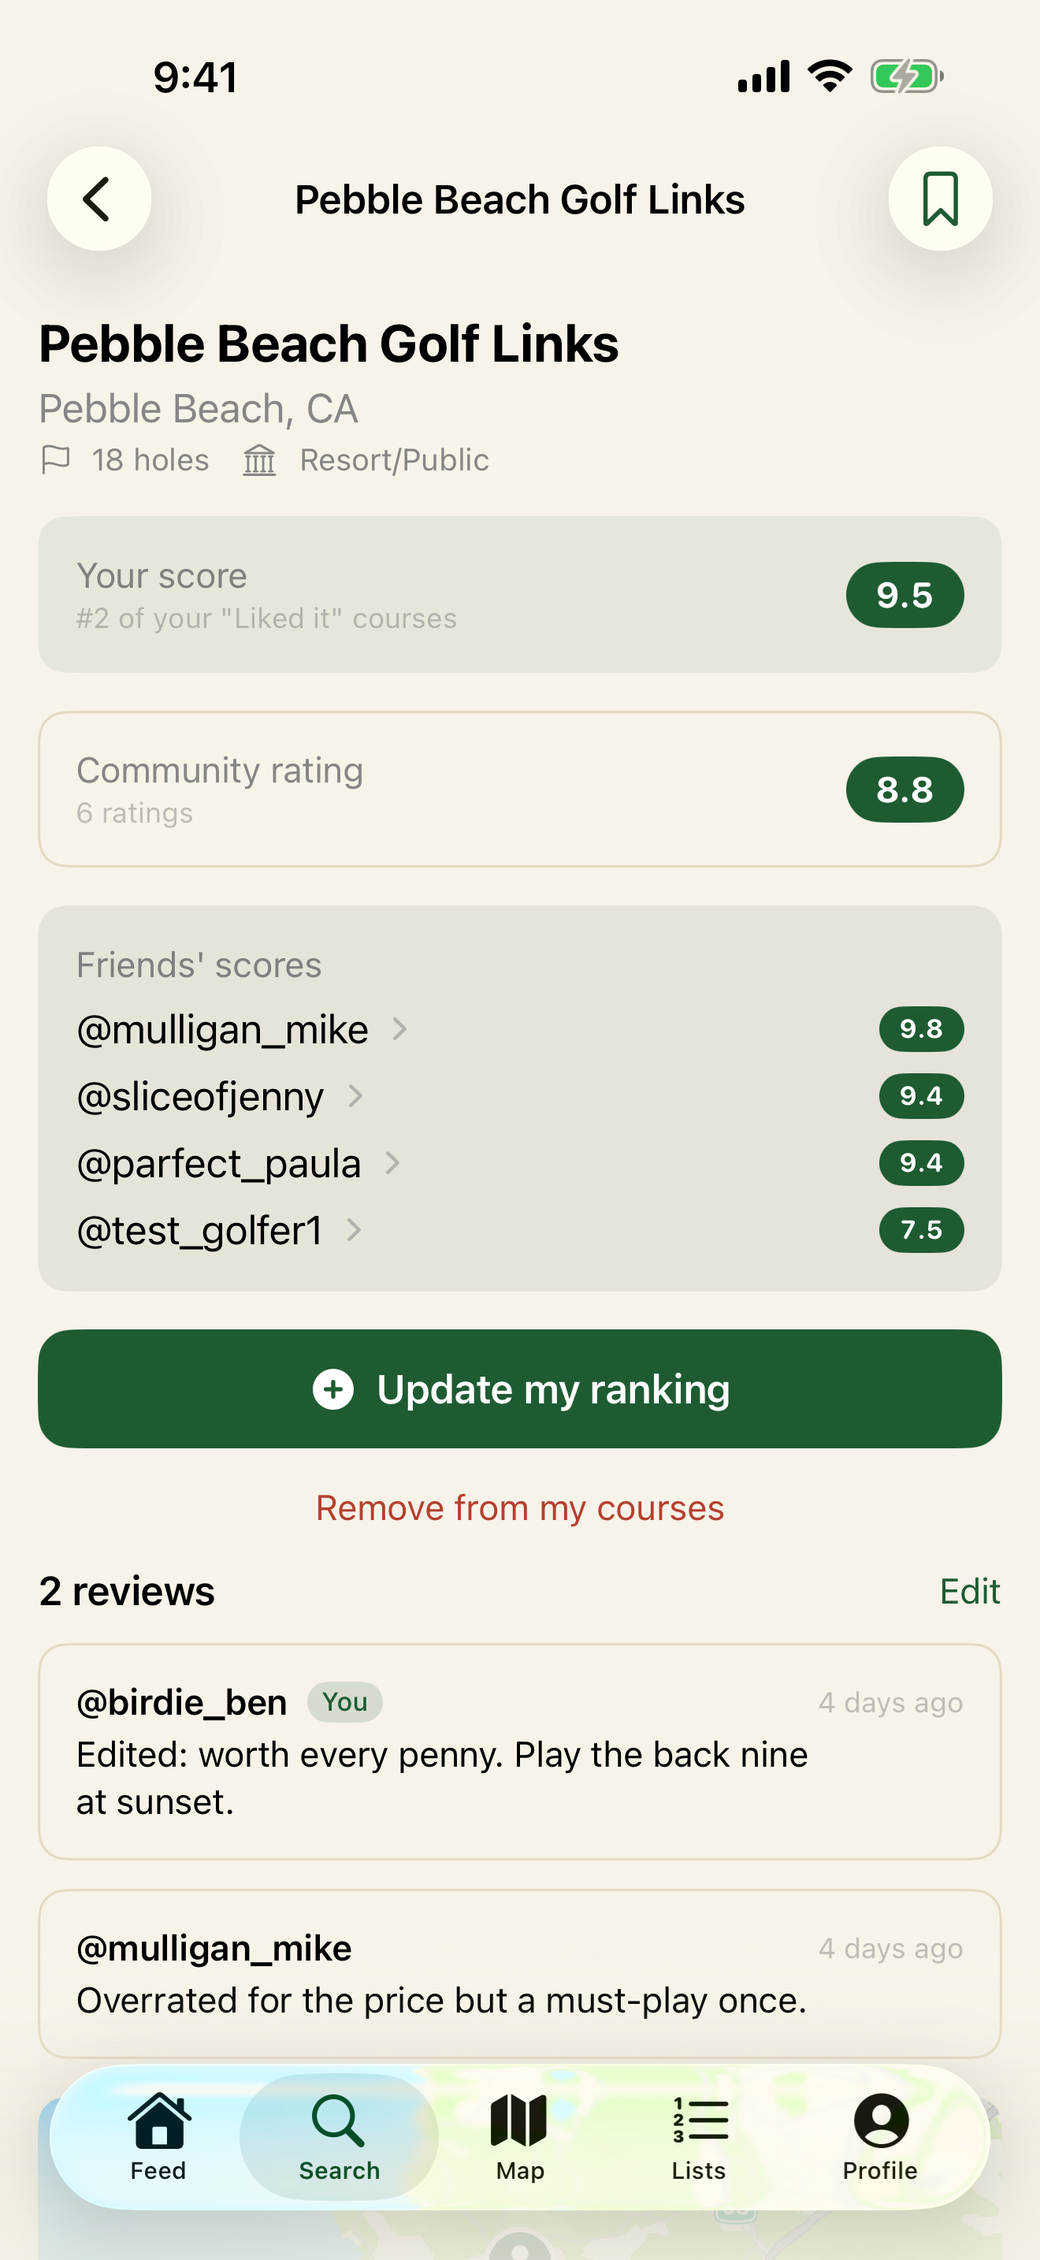
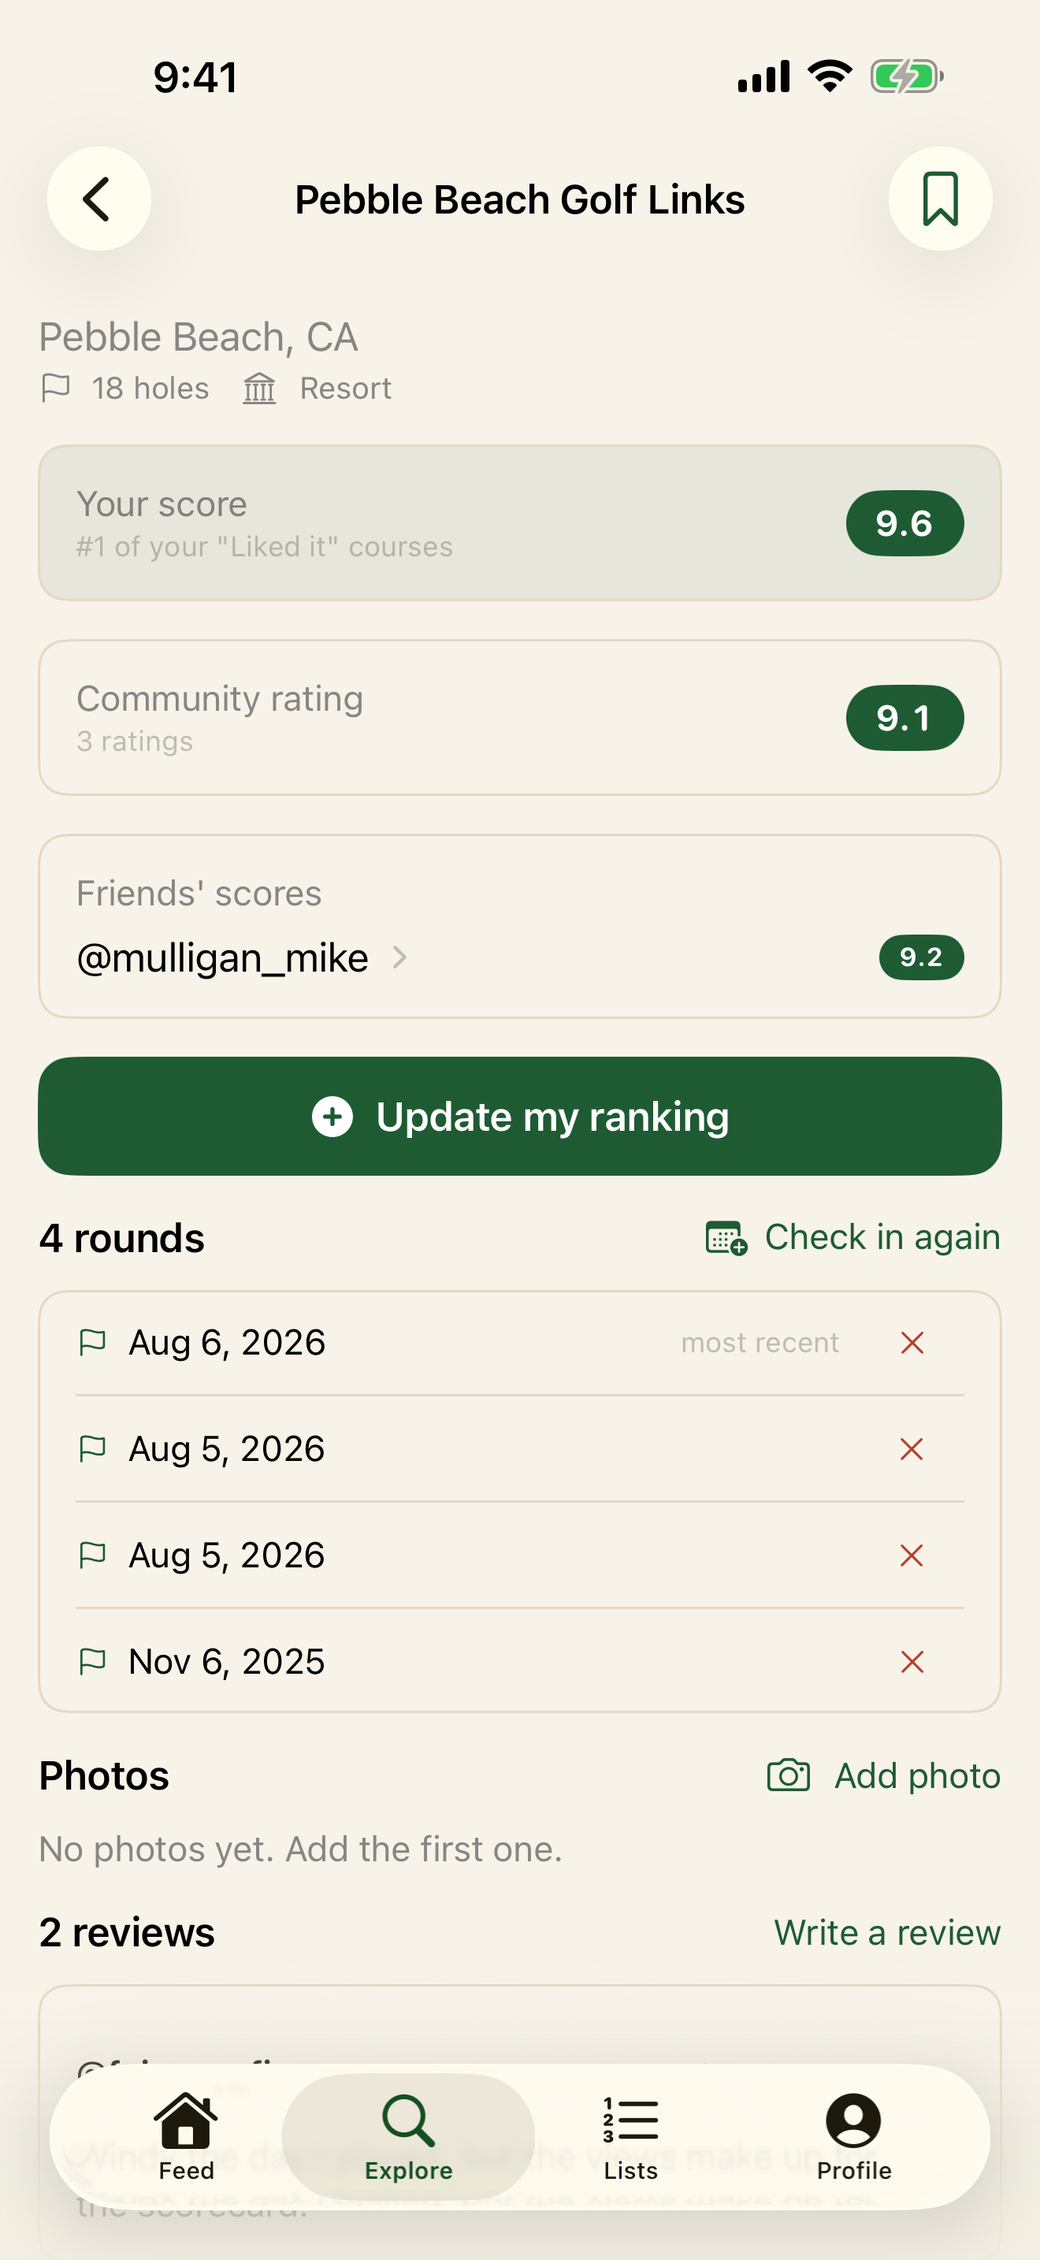
Refresh App Store screenshots; centre the score reveal; add questionnaire keys
The stored screenshot set was from 26 July and showed a five-tab app that no
longer exists — no Explore tab, reactions, alerts, photos or streaks. Replaced
with six 1320x2868 captures from the current build.

Capturing them caught a regression: wrapping the score reveal in a ScrollView
to fix Dynamic Type clipping left it top-aligned with the bottom third empty.
Tying the content's minHeight to the viewport restores the centring while
keeping it scrollable at large text sizes.

Also recorded exact answer keys for the two App Store Connect questionnaires,
including the two that read wrong but are right: Contacts and Location are both
NOT collected — names never leave the device, and location is never sent to the
backend.

Noted in the recipe that only one simulator may be booted during a capture run;
a second booted device fails most of the suite with no code cause.

diff --git a/3Wood/Features/Ranking/RankResultView.swift b/3Wood/Features/Ranking/RankResultView.swift
@@ -26,8 +26,12 @@ struct RankResultView: View {
     @State private var tagged: [String] = []
 
     var body: some View {
-        ScrollView {
-          VStack(spacing: 24) {
+        // minHeight tied to the viewport so the Spacers can centre the reveal
+        // when it fits — wrapping in a plain ScrollView top-aligned it and left
+        // the bottom third empty — while still scrolling at large text sizes.
+        GeometryReader { proxy in
+          ScrollView {
+            VStack(spacing: 24) {
             Spacer(minLength: 24)
             Text(courseName)
                 .font(.title2.bold())
@@ -84,9 +88,10 @@ struct RankResultView: View {
                 Text("Done")
             }
             .buttonStyle(.primary)
+            }
+            .padding()
+            .frame(maxWidth: .infinity, minHeight: proxy.size.height)
           }
-          .padding()
-          .frame(maxWidth: .infinity)
         }
         .creamScreen()
         .sheet(item: $sheet) { which in

diff --git a/docs/promotion-plan.md b/docs/promotion-plan.md
@@ -1,0 +1,260 @@
+# 3Wood — forum & Reddit promotion plan
+
+Written 2026-08-05. Assumption stated up front: **an App Store submission follows
+the current TestFlight round.** The plan is phased around that, because the single
+biggest constraint right now is not a forum rule — it's that there is no public
+download link.
+
+---
+
+## The strategy in one line
+
+**Post the rankings, not the app.** 3Wood's output — "every muni in [metro], ranked
+0–10, here's why" — is exactly the kind of post golf communities upvote. "Check out
+my app" is the kind they remove. Lead with the content the product generates, put
+the app in the last line. This is a real advantage most app promotion doesn't have;
+build everything around it.
+
+Corollary: **you get one launch post per community.** Spend it on a TestFlight beta
+and it's gone. Hence two phases.
+
+---
+
+## Blockers — close these before any public post
+
+| # | Item | Status |
+|---|------|--------|
+| 1 | **Supabase Pro upgrade ($25/mo)** | ⛔ OPEN — free tier auto-pauses after ~1wk idle. A post that gets *any* traction against a paused backend kills the app for every tester at once. This is a prerequisite for promoting, not a nice-to-have. |
+| 2 | **Migration 00220 pushed to hosted** | ⛔ OPEN — build 5 calls `course_visits`/`log_visit`. Without it strangers land on a load-failed screen. |
+| 3 | **App Review demo account** | ⛔ Re-verify it signs in before submission (see `appstore-listing.md`). Blocks Phase 2 entirely. |
+| 4 | **GitHub Pages live** | ✅ VERIFIED 2026-08-05 — `/`, `/privacy.html`, `/terms.html`, `/support.html` all return 200. |
+| 5 | **Custom domain** | ⚠ Undecided. `leon1224an-droid.github.io/3Wood/` in a Reddit post reads as unfinished and is likelier to trip link filters. If you're promoting, this stops being deferrable — a $12 domain (e.g. `3wood.app`) pointed at Pages is a half-hour job and materially raises how the link reads. |
+
+---
+
+## The problem the plan has to survive: cold start
+
+A stranger installs alone and finds an empty social graph. Be honest about what
+day 1 gives them:
+
+- ✅ 16,771 US courses with community ratings and a map
+- ✅ Their own ranked list built in minutes (the ranking flow is genuinely fun solo)
+- ✅ The leaderboard
+- ❌ A feed — empty until they follow someone
+
+**So: recruit cohorts, not individuals.** Aim at places where a *group* joins
+together — a city golf sub, a buddies-trip thread, a "rank your home track" thread
+where 40 people are already comparing lists. Also: seed the community ratings
+yourself before launch so a solo installer sees numbers on courses, not blanks.
+Course pages that read "no ratings yet" are how a first session ends.
+
+**US-only.** 16,771 courses are US. Don't post in r/golfaus, UK, or Canadian
+communities — the app is empty there and it reads as spam.
+
+---
+
+## Two one-liners (write for the room)
+
+- **Beli-aware crowd** (r/golf skews younger, will know it): *"It's Beli, but for
+  golf courses."*
+- **Everyone else** (GolfWRX, THP — largely won't know Beli): *"You rank courses
+  head-to-head instead of guessing at star ratings, and it turns that into a 0–10
+  list you can compare with your buddies."*
+
+---
+
+## Phase 1 — now, while TestFlight-only
+
+Goal: build posting history, recruit 20–50 beta testers, and **learn the pitch**
+cheaply. Do not touch r/golf or GolfWRX yet.
+
+⚠ Every subreddit named below is a **candidate, not a verified target** — I can't
+fetch Reddit, so confirm each one exists under that exact name and read its rules
+before posting. Names drift and some of these may not exist.
+
+| Where | Why it's safe | What to post |
+|---|---|---|
+| r/TestFlight, r/iosapps, r/betatesters | Beta-recruiting subs exist for exactly this; a beta link is on-topic, not spam | Short beta call, TestFlight public link |
+| r/SideProject, r/indiehackers | Builder audience, tolerant of self-promo | Build story: solo dev, 16k courses, the ranking algorithm |
+| Your own network / group chats | Highest conversion by far | Personal ask |
+| **Your local city sub or a local golf FB group** | A cohort that plays the same courses = the feed actually fills | "Building a course-ranking app, want to see if [city] can rank our munis" |
+
+Simultaneously, **start participating** in r/golf, GolfWRX and THP as a golfer with
+zero mention of the app. Comment on course threads, answer questions, post a round.
+Three to four weeks of that history is what separates a launch post that lands from
+one that's auto-filtered.
+
+---
+
+## ⚠ The real long pole: you need a ranked list of your own
+
+Drafts B and C below are the two highest-value posts in this plan, and **both
+require 10–22 courses in one metro that you have personally played and ranked.**
+That content can't be faked or generated — the whole post is your list.
+
+So the critical path for Phase 2 is probably **not** App Store approval. It's
+whether you have that list. Check your own Played tab:
+
+- **If you have 15+ ranked courses in one area** → you're ready, Phase 2 gates on
+  Apple only.
+- **If you have a handful** → this is the long pole and it starts *now*, in
+  parallel with everything else. Ranking courses you've already played (from memory,
+  going back years) counts and takes an evening. Ranking ones you haven't means
+  playing them, which is a month or more.
+
+Doing this also seeds community ratings, so strangers who install don't land on
+course pages that read "no ratings yet" — which is how a first session ends.
+
+## Phase 2 — the week the App Store link is live
+
+Sequence these **one per week**, not all at once. Blasting the same link across a
+dozen communities in a few days is what triggers site-wide Reddit filtering.
+
+| Community | Size / audience | Rules as verified | Angle |
+|---|---|---|---|
+| **r/golf** | ~2M, the big one. Skews younger, Beli-aware | ⚠ **Rules not machine-readable — open the sidebar and read them yourself before posting.** Reported to be strongly anti-self-promo; assume a mod-approval requirement until you've read otherwise | Week 4+. Content post: *"I ranked all 22 munis in [metro] 0–10"* with the list in the post body. App mentioned once, at the bottom |
+| **GolfWRX → "Courses, Memberships and Travel"** | Huge, gear-and-course obsessives, older | ✅ Verified: *"no unauthorized commercial postings… no advertising, promotional materials, or commercial solicitations except with prior consent."* Also a 75-post threshold on classifieds — treat it as the cultural bar generally | **Message a mod first and ask permission.** They do grant it; posting cold gets you banned. Build post count first |
+| **The Hackers Paradise (THP)** | Large, very community-driven, review/testing culture | ⚠ Couldn't verify rules text — read their forum rules thread. Culture is heavily "introduce yourself first" | Post an intro, participate a month, then ask a mod about sharing. THP runs member testing programs — a *"want 20 THP members to beta the next build"* framing fits their norms unusually well |
+| **Golf Club Atlas** | Small, but your single highest-value audience — course-ranking obsessives | ✅ Verified: accounts are **staff-approved**, registration is paid, and *"non-architecture threads & posts will be deleted"*; spam = account removal | **Never post the app here.** Join, discuss architecture, be a real member. Value is credibility and product insight, not installs. If it ever comes up, it comes up in conversation |
+| **MyGolfSpy forum** | Mid-size, data/testing-minded | ⚠ Verify | Same pattern as THP: participate, then ask |
+| **City subs** (r/Seattle, r/Austin, …) + local golf groups | Small but *cohort-shaped* — the cold-start fix | ⚠ Per-sub; most allow local content | *"Ranked every public course in [city] — arguments welcome."* Best conversion-per-post of anything here |
+
+---
+
+## Reddit account hygiene — the #1 silent failure
+
+A new account posting a link gets filtered invisibly. You'll think the post is live;
+nobody sees it. Before Phase 2:
+
+1. **Check your account's age and karma.** Under ~3 months or under ~100 comment
+   karma, build both first. Comment for weeks before you ever post a link.
+2. **Read each sub's actual rules page** (sidebar → Rules). I could not fetch these
+   — Reddit blocks automated access — so this is genuinely on you, and it takes two
+   minutes per sub.
+3. **Prefer text posts over link posts.** Many subs filter link posts automatically;
+   a text post with the link in the body usually passes.
+4. **Message mods first** anywhere the rules are ambiguous. "I built a free golf app,
+   is a post about it allowed, and where?" Mods say yes far more often than people
+   expect, and it converts a ban risk into a sanctioned post.
+5. **Keep a 10:1 ratio** — ten ordinary comments for every self-promotional post.
+   This is the actual heuristic Reddit's spam filters and mods use.
+6. Reply to every comment on your post for the first 6 hours. Engagement in the
+   first hour decides whether it ever leaves /new.
+
+---
+
+## Draft posts
+
+### A. Phase 1 — beta recruiting (r/TestFlight, r/iosapps)
+
+> **[iOS] 3Wood — rank the golf courses you've played, Beli-style (free beta)**
+>
+> I got tired of star ratings meaning nothing, so I built a golf course app that
+> works like Beli: you say whether you liked a course, then answer a few quick
+> head-to-head matchups against courses you've already played, and it turns that
+> into a personal 0–10 score for every course.
+>
+> 16,771 US courses in there. You can follow friends, see their scores next to
+> yours on any course page, keep a want-to-play list, and there's a map.
+>
+> TestFlight: [link]
+>
+> Solo dev, first app, actively fixing things — feedback goes straight into the
+> next build. iOS 17+, US courses only right now.
+
+### B. Phase 2 — the content post for r/golf (the important one)
+
+> **I ranked all 22 public courses in the [metro] area 0–10. Come tell me I'm wrong.**
+>
+> I've been playing every public track around [metro] for the past two years and
+> finally sat down and ranked them head-to-head instead of trying to guess star
+> ratings. Full list, best to worst:
+>
+> 1. **[Course]** — 9.2 — [one honest sentence: what makes it]
+> 2. **[Course]** — 8.7 — [one sentence]
+> 3. …
+>
+> [Keep going. All 22. This is the post — the list IS the content.]
+>
+> A few opinions I'll defend: [the spicy one]. And [course] at #14 will annoy
+> people, but [reason].
+>
+> What am I sleeping on?
+>
+> *(For what it's worth, the head-to-head thing worked so well I built it into a
+> free app — 3Wood, on the App Store. But mostly I want to know which one of these
+> I've got badly wrong.)*
+
+**Why this shape works:** the list is genuinely useful without the app, it invites
+argument (which is upvotes), and the plug is one parenthetical at the end. Note that
+mods remove whole posts — they don't edit out the plug — so if the last paragraph
+crosses a line you lose the entire post and your one shot at that community. That's
+the real argument for asking a mod first anywhere the rules are ambiguous.
+
+### C. Phase 2 — city sub (the cohort play)
+
+> **Ranked every public course in [city] — want to see if we can build a real list**
+>
+> [Same list format, shorter — top 10.]
+>
+> I built a little app for this because I wanted to compare my list against my
+> buddies' and there was no good way to do it. If a few of you rank yours, we'd
+> have an actual [city] golfer consensus instead of the same three Google reviews
+> from 2019. Free, no ads: [link]
+>
+> Either way — what's the most underrated muni here?
+
+### D. Phase 2 — GolfWRX / THP, **after** mod permission
+
+> **Built a course-ranking app after arguing with my group about the best track in town**
+>
+> Long-time lurker, [N] posts here. Over the last year I built an iOS app for
+> ranking courses you've played. The idea: instead of star ratings, you rank courses
+> head-to-head against each other — the same way you'd actually argue about it — and
+> it produces a 0–10 list. 16,771 US courses, you can follow your regular group and
+> see everyone's scores side by side on a course page.
+>
+> No ads, no subscription, nothing sold. I'm a solo developer and a 14 handicap.
+>
+> [link]
+>
+> Mods, thank you for the OK to post this. Happy to answer anything about how the
+> ranking math works — that part was the fun problem.
+
+---
+
+## What to measure — use the `?ref` machinery you already built
+
+`Invite.link` already appends `?ref=username`, and `docs/index.html` already renders
+a greeting banner off it. **Use a distinct ref per post** — `?ref=rgolf`,
+`?ref=wrx`, `?ref=austin`, `?ref=thp` — and you get true per-community attribution
+from landing-page traffic, which is far better than App Store Connect's coarse
+source buckets. Costs nothing; just remember to vary the link.
+
+Track per post: landing hits by ref, installs in the following 48h, signups
+(Supabase `profiles` count), and **how many rank ≥3 courses** — that last one is the
+only number that tells you the pitch matched reality. A post that drives 200 installs
+and 4 completed rankings means the landing experience is broken, not that the post
+failed.
+
+Also watch: if a post lands, Supabase load spikes. See blocker #1.
+
+## One thing promotion changes about your workload
+
+`appstore-listing.md` commits to reviewing reported content within 24 hours, and the
+app now carries three kinds of UGC (reviews, comments, photos). Ten friends are
+self-policing; two hundred strangers from r/golf are not. Budget for checking the
+reports queue in the Supabase dashboard daily during any active promotion push.
+
+---
+
+## Ordered next actions
+
+1. Upgrade Supabase to Pro. Nothing else in this plan is safe without it.
+2. Push migration 00220 to hosted, then distribute build 5 to the Friends group.
+3. Decide the domain. Buy it, point it at Pages, ship the URL change in the next build.
+4. Create/verify the Reddit account; start commenting in r/golf as a golfer. No links.
+5. Post draft A to r/TestFlight this week. Learn what people ask.
+6. Rank your own local courses in the app — you need the list in draft B to be real,
+   and it seeds community ratings for everyone who installs after.
+7. Submit to the App Store. Phase 2 starts the day it's approved.

diff --git a/docs/appstore-listing.md b/docs/appstore-listing.md
@@ -59,7 +59,37 @@ golf,course,rankings,tracker,social,friends,rounds,tee,scorecard,beli,rate,leade
 - Primary: Sports
 - Secondary: Social Networking
 
-## App Privacy questionnaire notes
+## App Privacy questionnaire — answer key
+For each row: "Yes, we collect this data" → Linked to the user → purpose
+**App Functionality** → NOT used for tracking.
+
+| Category | Item |
+|---|---|
+| Contact Info | Email Address |
+| Contact Info | Phone Number (optional, friend matching) |
+| Contact Info | Name |
+| User Content | **Photos or Videos** (course photos) |
+| User Content | Other User Content (reviews, comments, rankings) |
+| Identifiers | User ID |
+
+Answer **No** to everything else. The two that look wrong but aren't:
+- **Contacts → No.** Names never leave the device; only phone numbers are sent
+  for matching, and they are not stored.
+- **Location → No.** Used on-device to centre the map; never sent to the backend.
+
+No tracking, no ads, no data sold, no data broker.
+
+## Age rating questionnaire — answer key
+Everything **None** except:
+- **User Generated Content → Yes** (photos, reviews, comments).
+- When asked about moderation: yes — report and block on all three, plus
+  server-side filtering of blocked users' content.
+- Unrestricted Web Access → No.
+
+Expect **12+**, not 4+. Apple raises the rating for any UGC app regardless of
+moderation quality. Listing copy must not claim it suits all ages.
+
+## Detail behind the answers
 - Contact Info → Email Address: collected, linked to identity (account).
 - Contact Info → Phone Number: optional, linked, used for app functionality
   (friend matching). Numbers from the user's address book are transmitted for
@@ -69,10 +99,26 @@ golf,course,rankings,tracker,social,friends,rounds,tee,scorecard,beli,rate,leade
 - Identifiers: User ID (linked).
 - No tracking, no ads, no data sold.
 
-## Screenshots plan (6.9" required set)
-Use the marketing set in docs/img/ as the storyboard: score reveal (hero),
-feed, course detail, friend profile, ranked list, map. Re-capture on
-"iPhone 17 Pro Max" simulator for final 1320×2868 assets before submission.
+## Screenshots (6.9" required set) — CURRENT as of 2026-08-05
+`docs/appstore/screenshots/`, 1320×2868, captured on iPhone 17 Pro Max from the
+four-tab build: 1-feed (reactions visible), 2-score-reveal, 3-course-detail,
+4-explore-map (Pebble Beach with score pins), 5-my-courses, 6-comments.
+
+Recipe, if they need recapturing after a UI change:
+```
+UDID=$(xcrun simctl list devices available | grep "iPhone 17 Pro Max" | head -1 | sed -E 's/.*\(([0-9A-F-]{36})\).*/\1/')
+xcrun simctl boot "$UDID"
+xcrun simctl status_bar "$UDID" override --time "9:41" --cellularMode active \
+  --cellularBars 4 --wifiMode active --wifiBars 3 --batteryState charged --batteryLevel 100
+xcrun simctl privacy "$UDID" grant contacts com.leonan.threewood
+xcrun simctl privacy "$UDID" grant location-always com.leonan.threewood
+xcrun simctl location "$UDID" set 36.5725,-121.9486
+xcodebuild -project 3Wood.xcodeproj -scheme 3Wood -destination "id=$UDID" \
+  -resultBundlePath /tmp/store.xcresult test
+xcrun xcresulttool export attachments --path /tmp/store.xcresult --output-path /tmp/shots
+```
+Only ONE simulator may be booted during the run — a second booted device makes
+most of the suite fail for no code reason.
 
 ## Review notes (for App Review)
 - Demo account (hosted): `3woodapp+review@gmail.com`, username **@demo_golfer**.
